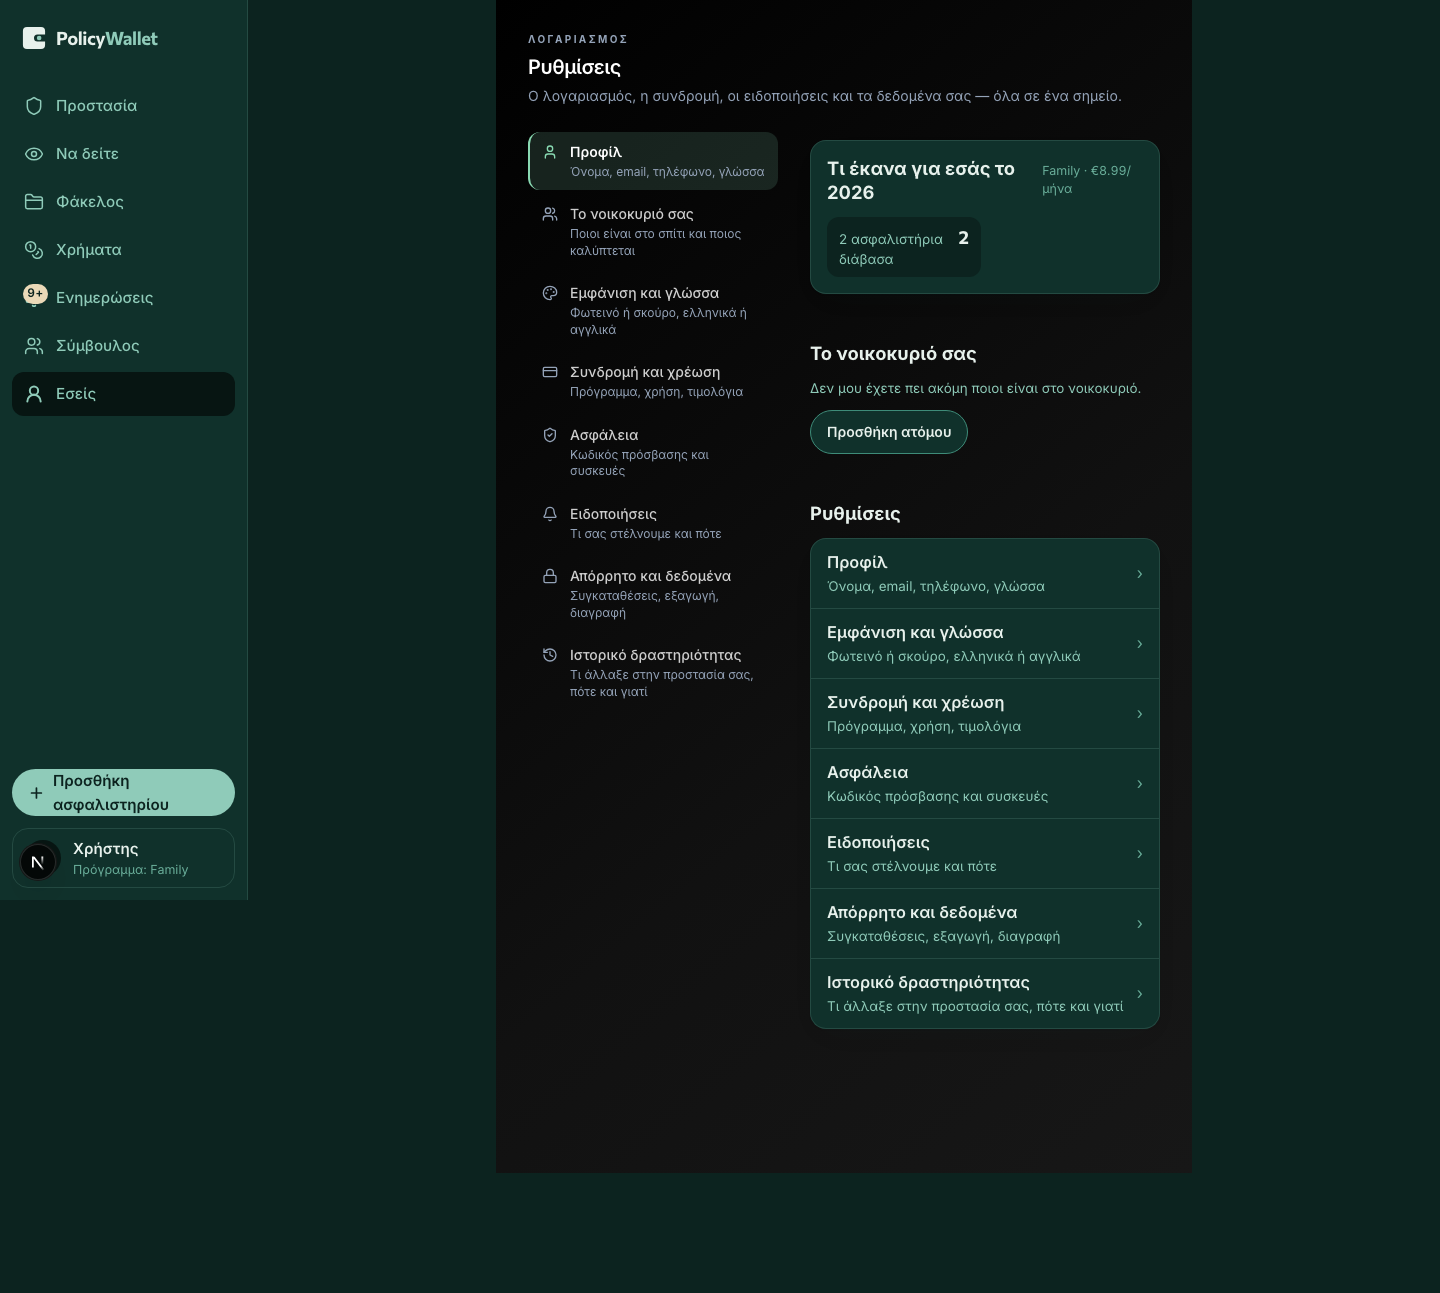
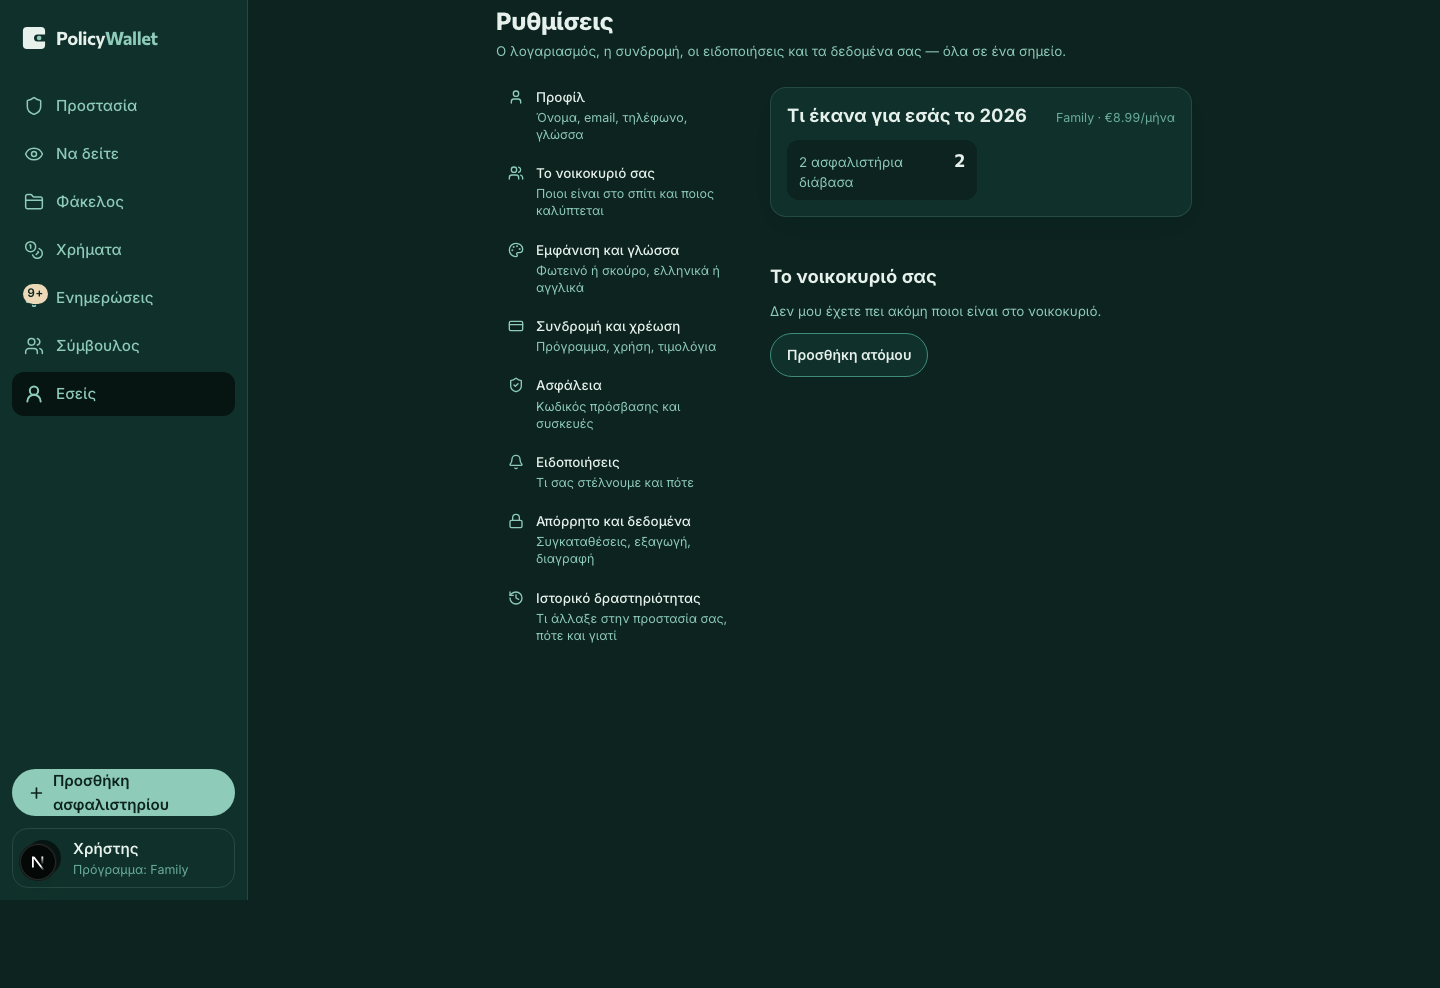
[grafi-app][R7] restyle pass evidence: screens, ledger row, STATUS/handover
Rendered gate 24/24 (incl. the new auto-theme cases), full unit suite
539/6114 green, build exit 0, axe clean on /me, /me/appearance, /me/plan
in both themes. Screens refreshed for the walked routes plus household,
appearance and the restyled secondary surfaces.

Claude-Session: https://claude.ai/code/session_01Nc5HceonggRuGCpS2n5poV

diff --git a/docs/B2C_PROGRESS.md b/docs/B2C_PROGRESS.md
@@ -80,3 +80,36 @@ control, not a product feature), «πόσο κοστίζει να προσθέσ
 purchase), ≈ duplicate amounts (no tariff data — §9 forbids invented ≈), geographic why-you
 («κοντά στον Ποδονίφτη» — no flood-zone data source exists).
 
+
+## R — B2C restyle pass (2026-08-31)
+
+The legacy-styled islands inside the B2C tree moved onto Grafí, functionality intact, plus the
+explicit three-way theme choice. Commits R1–R6 on `feat/grafi-b2c`:
+
+- **R1 theme**: Αυτόματα/Φωτεινό/Σκούρο via `ThemeChoice` (SegmentedControl over next-themes
+  `theme` — «system» is now representable; the shell's binary toggle stays for agent chrome, pinned
+  by shell-chrome-invariants). Generator now emits `color-scheme` per theme; viewport `themeColor`
+  is a light/dark media pair. Spec: auto-follows-OS both directions + 3-option radiogroup.
+- **R2 chrome**: SettingsShell/SettingsNav rebuilt — pw-page-shell, «ΛΟΓΑΡΙΑΣΜΟΣ» kicker, the
+  desktop double list and the doubled sub-page titles are gone; one route-switched h1; grid on
+  `desk:`; children own their inset (double phone padding fixed).
+- **R3 primitives**: SettingsSection/RowList/SettingRow/InlineEditRow/Fallbacks/modal + the four
+  sections' residue onto tokens; InlineEditRow's idle branch IS SettingRow now; the raw red delete
+  button became the danger Button variant.
+- **R4 embedded**: PolicyQA (black `#111111` banner → action-primary, debt delisted),
+  Documents/AddDocument cards, UploadDropzone (slate ramp gone), DeletePolicy, GlossaryHint,
+  AddPolicyClient (own page frame + sticky-bar fight with LargeTitleNav fixed, uppercase CTAs
+  gone). Found+fixed: `<details>` inside `<p>` hydration error on the policy detail.
+- **R5 secondary routes**: help(+article), upgrade(+success, PricingComparison), benefits,
+  wallet/[id]/edit, wallet/[id]/review, collaboration — double `min-h-screen` frames removed,
+  legacy semantic vars mapped to Grafí, trial badge copy de-uppercased. Inputs → design-system
+  `Input`; selects/textarea stay on `pw-input` (D-B2C-30: no Grafí Select/Textarea primitive yet —
+  create them before deleting pw-input from globals).
+- **R6 heavyweights**: BranchDetail + CollaborationTimeline mechanical class substitution,
+  structure untouched.
+
+Guard maintenance recorded: PolicyQA left `always-dark-surfaces`; the DeletePolicy contrast pin
+re-pointed to the measured `action-danger`/`fg-on-brand` pair (6.87:1 light / 7.27:1 dark);
+`design-token-debt` shrank by the PolicyQA entry. Leftover, deliberate: uppercase lifecycle chips
+on /protection/[branch] come from the stored V5 catalogue labels shared with agent surfaces —
+they retire with the legacy deletion commit (A-25), not with a class pass.

diff --git a/docs/handover.md b/docs/handover.md
@@ -161,3 +161,17 @@ closed — production behaviour is unchanged by the merge.
 6. **DPO wording** for the per-document consent framing (legal queue item 5);
    **tariff data** before any paid-twice € renders.
 
+
+### R restyle pass addendum (2026-08-31)
+
+- Theme: `defaultTheme="system"` was already set; the ONLY control that may write the stored theme
+  on B2C surfaces is `components/settings/ThemeChoice.tsx` (writes `system|light|dark`). The shell
+  `ThemeToggle` (agent/public chrome) still writes bare light/dark and destroys «system» — replace
+  it when the agent shell moves to Grafí; `shell-chrome-invariants.test.tsx:290` pins its import.
+- `pw-input` survives on: AddPolicyClient's two selects, EditPolicyForm's shared `inputClass`
+  consumers, CollaborationTimeline's composer controls (D-B2C-30). Build Grafí Select/Textarea
+  primitives first, then delete `.pw-input` from globals and `button-consistency.test.ts` together.
+- LocaleToggle + the `components/ui` debt entries deliberately untouched (listed in
+  design-token-debt; shrink when those files are next opened).
+- /protection/[branch] still renders the stored-uppercase V5 lifecycle labels (shared with agent
+  surfaces) — they go with the legacy deletion commit (A-25), not a restyle.

diff --git a/docs/STATUS.md b/docs/STATUS.md
@@ -4,7 +4,7 @@
 
 **Done:** the signed-in product rebuilt on Grafí at `/`, /see, /policies(+id), /money, /updates, /adviser(+help), /me(+household/appearance — the whole /account tree moved), /add (verbatim Art. 9 gate, per-document consent write+enforcement+revocation), /life-event/[type], /welcome. Ledger docs/B2C_PROGRESS.md (G0–G14 + D-B2C-01..28), ASSUMPTIONS A-09..A-30. Three hostile reader passes ran against the live build; every code finding fixed (updates disclosure + steering copy, self-paired money rows, per-contract finding dedupe, never-read ⇒ «για έλεγχο», mute map cells, QA consent dead-end, axe clean both themes). Rendered gate 22/22; suite ~6,1xx tests green at each commit; build exit 0.
 
-**In progress:** nothing — PR #287 open (https://github.com/moniaros/policy-wallet/pull/287), awaiting the prod DDL + owner merge.
+**In progress:** R restyle pass shipped 2026-08-31 (settings chrome + embedded components + all seven secondary routes onto Grafí; light/dark/auto theme choice) — PR #287 open (https://github.com/moniaros/policy-wallet/pull/287), awaiting the prod DDL + owner merge.
 
 **Blocked:** prod DDL (classifier denies MCP DDL — SQL in docs/handover.md); flags stay off until it lands.
 
